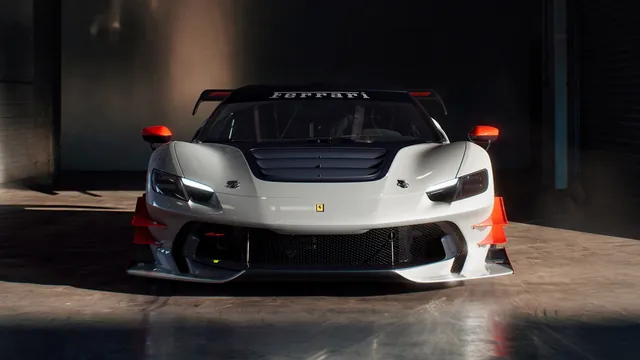
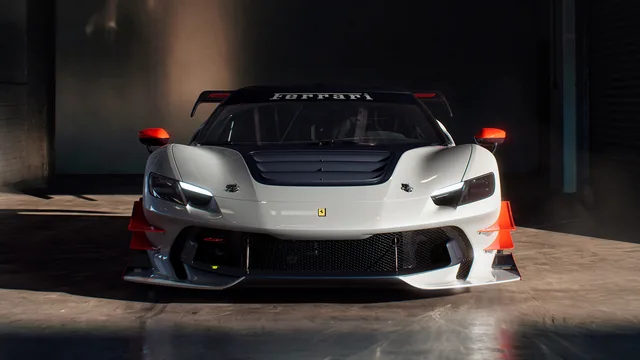
v2 galleries: the client's unused frames replace their ferrari.com twins
Stradale: AA-06 desktop and AA-01b go in as g06 and g09; the duplicate front
shot g12 becomes the shield detail. Evo: AA-01b goes in as g07; the duplicate
rear shot g08 becomes the steering-wheel detail.

diff --git a/296_Challenge_Stradale_v2/_main.html b/296_Challenge_Stradale_v2/_main.html
@@ -174,8 +174,9 @@
   </section>
 
   <!-- ── AA-07 · Chapter 6 · Gallery ──────────────────────────────────────── -->
-  <!-- TODO (client): the build sheet asks for 12 images (16:9) and none were supplied. These 12 are
-       the same shoot taken from ferrari.com (preview only). -->
+  <!-- TODO (client): the build sheet asks for 12 images (16:9) and none were supplied. g06 and g09 are
+       the client's own unused frames (AA-06 desktop, AA-01b); the other 10 are the same shoot taken
+       from ferrari.com (preview only). -->
   <section class="gallery v2-ground" id="gallery" aria-labelledby="gal-h" data-chapter="Gallery">
     <div class="wrap">
       <div class="tb" data-tb>
@@ -191,14 +192,14 @@
         <li><button class="tile" type="button" data-gal-open="1"><img src="img/gallery12/g02-sm.webp" width="640" height="360" alt="Through a corner in a dust cloud" loading="lazy"></button></li>
         <li><button class="tile" type="button" data-gal-open="2"><img src="img/gallery12/g03-sm.webp" width="640" height="360" alt="Side profile at speed" loading="lazy"></button></li>
         <li><button class="tile" type="button" data-gal-open="3"><img src="img/gallery12/g04-sm.webp" width="640" height="360" alt="The cockpit and carbon-fiber steering wheel" loading="lazy"></button></li>
-        <li><button class="tile" type="button" data-gal-open="4"><img src="img/gallery12/g05-sm.webp" width="640" height="360" alt="Three-quarter front over the kerb" loading="lazy"></button></li>
+        <li><button class="tile" type="button" data-gal-open="4"><img src="img/gallery12/g05-sm.webp" width="640" height="360" alt="Through a corner over the kerb in a dust cloud" loading="lazy"></button></li>
         <li><button class="tile" type="button" data-gal-open="5"><img src="img/gallery12/g06-sm.webp" width="640" height="360" alt="Rear view through a corner" loading="lazy"></button></li>
         <li><button class="tile" type="button" data-gal-open="6"><img src="img/gallery12/g07-sm.webp" width="640" height="360" alt="The seats from the driver’s door" loading="lazy"></button></li>
         <li><button class="tile" type="button" data-gal-open="7"><img src="img/gallery12/g08-sm.webp" width="640" height="360" alt="Rear view with fixed wing" loading="lazy"></button></li>
-        <li><button class="tile" type="button" data-gal-open="8"><img src="img/gallery12/g09-sm.webp" width="640" height="360" alt="Rear three-quarter from above" loading="lazy"></button></li>
+        <li><button class="tile" type="button" data-gal-open="8"><img src="img/gallery12/g09-sm.webp" width="640" height="360" alt="Rear view through a corner, fixed wing" loading="lazy"></button></li>
         <li><button class="tile" type="button" data-gal-open="9"><img src="img/gallery12/g10-sm.webp" width="640" height="360" alt="Centre console and seat" loading="lazy"></button></li>
         <li><button class="tile" type="button" data-gal-open="10"><img src="img/gallery12/g11-sm.webp" width="640" height="360" alt="Seats and harnesses from the passenger side" loading="lazy"></button></li>
-        <li><button class="tile" type="button" data-gal-open="11"><img src="img/gallery12/g12-sm.webp" width="640" height="360" alt="Front view on the circuit, wide" loading="lazy"></button></li>
+        <li><button class="tile" type="button" data-gal-open="11"><img src="img/gallery12/g12-sm.webp" width="640" height="360" alt="The Scuderia Ferrari shield on the front wing" loading="lazy"></button></li>
       </ul>
       <button class="arrow arrow--next" type="button" data-gal-next aria-label="Next images">
         <svg width="7" height="11" viewBox="0 0 7 11" aria-hidden="true"><path d="M1 1l4.5 4.5L1 10" fill="none" stroke="currentColor" stroke-width="1.5"/></svg>

diff --git a/296_Challenge_Stradale_v2/index.html b/296_Challenge_Stradale_v2/index.html
@@ -344,8 +344,9 @@
   </section>
 
   <!-- ── AA-07 · Chapter 6 · Gallery ──────────────────────────────────────── -->
-  <!-- TODO (client): the build sheet asks for 12 images (16:9) and none were supplied. These 12 are
-       the same shoot taken from ferrari.com (preview only). -->
+  <!-- TODO (client): the build sheet asks for 12 images (16:9) and none were supplied. g06 and g09 are
+       the client's own unused frames (AA-06 desktop, AA-01b); the other 10 are the same shoot taken
+       from ferrari.com (preview only). -->
   <section class="gallery v2-ground" id="gallery" aria-labelledby="gal-h" data-chapter="Gallery">
     <div class="wrap">
       <div class="tb" data-tb>
@@ -361,14 +362,14 @@
         <li><button class="tile" type="button" data-gal-open="1"><img src="img/gallery12/g02-sm.webp" width="640" height="360" alt="Through a corner in a dust cloud" loading="lazy"></button></li>
         <li><button class="tile" type="button" data-gal-open="2"><img src="img/gallery12/g03-sm.webp" width="640" height="360" alt="Side profile at speed" loading="lazy"></button></li>
         <li><button class="tile" type="button" data-gal-open="3"><img src="img/gallery12/g04-sm.webp" width="640" height="360" alt="The cockpit and carbon-fiber steering wheel" loading="lazy"></button></li>
-        <li><button class="tile" type="button" data-gal-open="4"><img src="img/gallery12/g05-sm.webp" width="640" height="360" alt="Three-quarter front over the kerb" loading="lazy"></button></li>
+        <li><button class="tile" type="button" data-gal-open="4"><img src="img/gallery12/g05-sm.webp" width="640" height="360" alt="Through a corner over the kerb in a dust cloud" loading="lazy"></button></li>
         <li><button class="tile" type="button" data-gal-open="5"><img src="img/gallery12/g06-sm.webp" width="640" height="360" alt="Rear view through a corner" loading="lazy"></button></li>
         <li><button class="tile" type="button" data-gal-open="6"><img src="img/gallery12/g07-sm.webp" width="640" height="360" alt="The seats from the driver’s door" loading="lazy"></button></li>
         <li><button class="tile" type="button" data-gal-open="7"><img src="img/gallery12/g08-sm.webp" width="640" height="360" alt="Rear view with fixed wing" loading="lazy"></button></li>
-        <li><button class="tile" type="button" data-gal-open="8"><img src="img/gallery12/g09-sm.webp" width="640" height="360" alt="Rear three-quarter from above" loading="lazy"></button></li>
+        <li><button class="tile" type="button" data-gal-open="8"><img src="img/gallery12/g09-sm.webp" width="640" height="360" alt="Rear view through a corner, fixed wing" loading="lazy"></button></li>
         <li><button class="tile" type="button" data-gal-open="9"><img src="img/gallery12/g10-sm.webp" width="640" height="360" alt="Centre console and seat" loading="lazy"></button></li>
         <li><button class="tile" type="button" data-gal-open="10"><img src="img/gallery12/g11-sm.webp" width="640" height="360" alt="Seats and harnesses from the passenger side" loading="lazy"></button></li>
-        <li><button class="tile" type="button" data-gal-open="11"><img src="img/gallery12/g12-sm.webp" width="640" height="360" alt="Front view on the circuit, wide" loading="lazy"></button></li>
+        <li><button class="tile" type="button" data-gal-open="11"><img src="img/gallery12/g12-sm.webp" width="640" height="360" alt="The Scuderia Ferrari shield on the front wing" loading="lazy"></button></li>
       </ul>
       <button class="arrow arrow--next" type="button" data-gal-next aria-label="Next images">
         <svg width="7" height="11" viewBox="0 0 7 11" aria-hidden="true"><path d="M1 1l4.5 4.5L1 10" fill="none" stroke="currentColor" stroke-width="1.5"/></svg>

diff --git a/296_Challenge_Evo_v2/_main.html b/296_Challenge_Evo_v2/_main.html
@@ -173,7 +173,7 @@
 
   <!-- ── AA-07 · Chapter 6 · Gallery ──────────────────────────────────────── -->
   <!-- TODO (client): the build sheet asks for 12 images (16:9) and none were supplied. These 12 are
-       taken from ferrari.com's 296 Challenge Evo page (preview only). -->
+       taken from ferrari.com's 296 Challenge Evo page (preview only); g07 is the client's own unused AA-01b frame. -->
   <section class="gallery v2-ground" id="gallery" aria-labelledby="gal-h" data-chapter="Gallery">
     <div class="wrap">
       <div class="tb" data-tb>
@@ -192,7 +192,7 @@
         <li><button class="tile" type="button" data-gal-open="4"><img src="img/gallery12/g05-sm.webp" width="640" height="360" alt="Rear three-quarter leaving the garage" loading="lazy"></button></li>
         <li><button class="tile" type="button" data-gal-open="5"><img src="img/gallery12/g06-sm.webp" width="640" height="360" alt="Racing seat and roll cage" loading="lazy"></button></li>
         <li><button class="tile" type="button" data-gal-open="6"><img src="img/gallery12/g07-sm.webp" width="640" height="360" alt="Front view in the garage" loading="lazy"></button></li>
-        <li><button class="tile" type="button" data-gal-open="7"><img src="img/gallery12/g08-sm.webp" width="640" height="360" alt="Rear three-quarter in the garage door" loading="lazy"></button></li>
+        <li><button class="tile" type="button" data-gal-open="7"><img src="img/gallery12/g08-sm.webp" width="640" height="360" alt="Steering wheel detail: rotary controls and the Cavallino" loading="lazy"></button></li>
         <li><button class="tile" type="button" data-gal-open="8"><img src="img/gallery12/g09-sm.webp" width="640" height="360" alt="Rear view in the garage" loading="lazy"></button></li>
         <li><button class="tile" type="button" data-gal-open="9"><img src="img/gallery12/g10-sm.webp" width="640" height="360" alt="The cockpit from the driver’s side" loading="lazy"></button></li>
         <li><button class="tile" type="button" data-gal-open="10"><img src="img/gallery12/g11-sm.webp" width="640" height="360" alt="From above, front bonnet" loading="lazy"></button></li>

diff --git a/296_Challenge_Evo_v2/index.html b/296_Challenge_Evo_v2/index.html
@@ -343,7 +343,7 @@
 
   <!-- ── AA-07 · Chapter 6 · Gallery ──────────────────────────────────────── -->
   <!-- TODO (client): the build sheet asks for 12 images (16:9) and none were supplied. These 12 are
-       taken from ferrari.com's 296 Challenge Evo page (preview only). -->
+       taken from ferrari.com's 296 Challenge Evo page (preview only); g07 is the client's own unused AA-01b frame. -->
   <section class="gallery v2-ground" id="gallery" aria-labelledby="gal-h" data-chapter="Gallery">
     <div class="wrap">
       <div class="tb" data-tb>
@@ -362,7 +362,7 @@
         <li><button class="tile" type="button" data-gal-open="4"><img src="img/gallery12/g05-sm.webp" width="640" height="360" alt="Rear three-quarter leaving the garage" loading="lazy"></button></li>
         <li><button class="tile" type="button" data-gal-open="5"><img src="img/gallery12/g06-sm.webp" width="640" height="360" alt="Racing seat and roll cage" loading="lazy"></button></li>
         <li><button class="tile" type="button" data-gal-open="6"><img src="img/gallery12/g07-sm.webp" width="640" height="360" alt="Front view in the garage" loading="lazy"></button></li>
-        <li><button class="tile" type="button" data-gal-open="7"><img src="img/gallery12/g08-sm.webp" width="640" height="360" alt="Rear three-quarter in the garage door" loading="lazy"></button></li>
+        <li><button class="tile" type="button" data-gal-open="7"><img src="img/gallery12/g08-sm.webp" width="640" height="360" alt="Steering wheel detail: rotary controls and the Cavallino" loading="lazy"></button></li>
         <li><button class="tile" type="button" data-gal-open="8"><img src="img/gallery12/g09-sm.webp" width="640" height="360" alt="Rear view in the garage" loading="lazy"></button></li>
         <li><button class="tile" type="button" data-gal-open="9"><img src="img/gallery12/g10-sm.webp" width="640" height="360" alt="The cockpit from the driver’s side" loading="lazy"></button></li>
         <li><button class="tile" type="button" data-gal-open="10"><img src="img/gallery12/g11-sm.webp" width="640" height="360" alt="From above, front bonnet" loading="lazy"></button></li>
